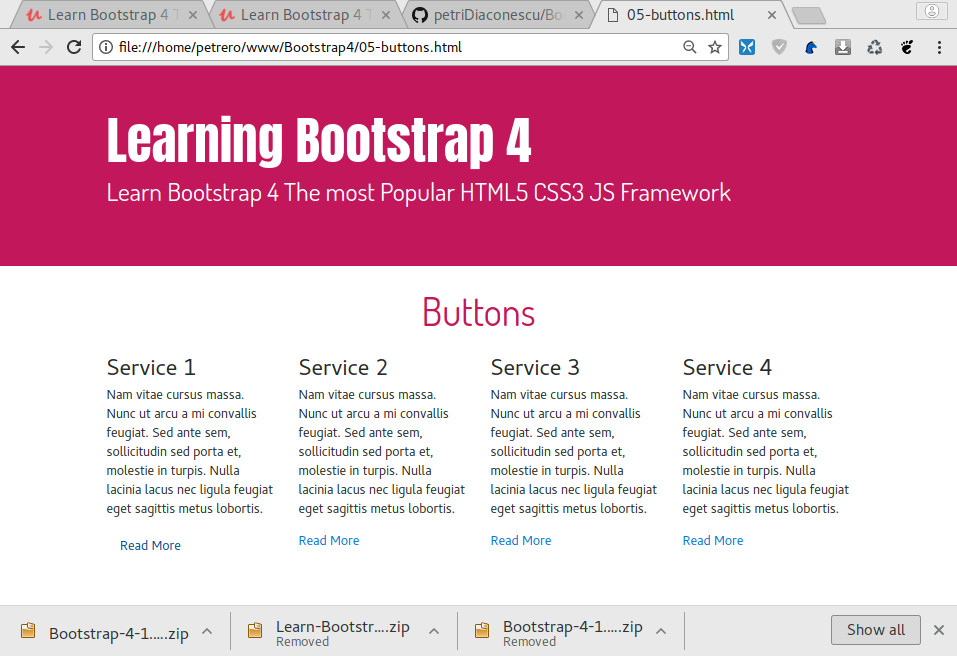
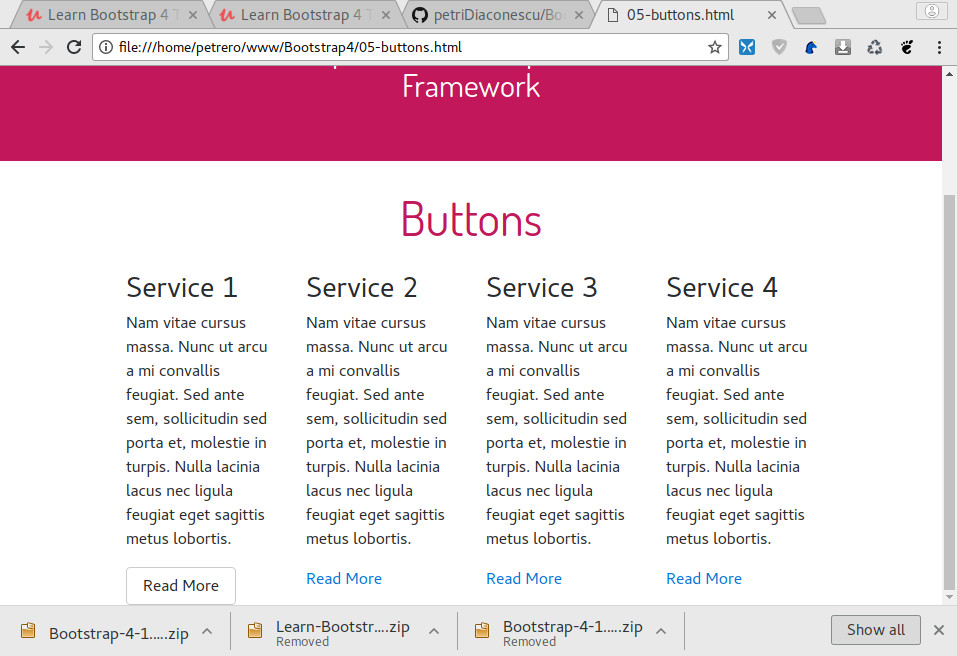
Apply btn-secondary bootstrap class to a button

diff --git a/05-buttons.html b/05-buttons.html
@@ -27,7 +27,7 @@
             <div class="col-6 col-sm-3">
                   <h3>Service 1</h3>
                   <p>Nam vitae cursus massa. Nunc ut arcu a mi convallis feugiat. Sed ante sem, sollicitudin sed porta et, molestie in turpis. Nulla lacinia lacus nec ligula feugiat eget sagittis metus lobortis.</p>
-                  <a href="#" class="btn btn-primary">Read More</a>
+                  <a href="#" class="btn btn-secondary">Read More</a>
                     
             </div>
             <div class="col-6 col-sm-3">
